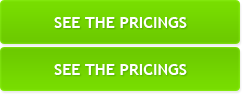
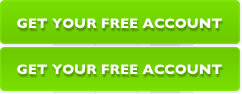
Front page starting to shape up

diff --git a/app/views/home/index.html b/app/views/home/index.html
@@ -3,8 +3,8 @@
     <%= render :partial => 'header', :locals => {:page => 'about'} %>
     <div class="clear span-12 last" id="banner">
       <div class="span-7" id="description">
-        <p>Welcome to <a href="#">PsychSurveys!</a> Read our <a href="#">Getting Started</a> Guide, visit the <a href="#">Blog</a> for recent news and make yourself at home! You can find information about PsychSurveys! in our <a href="#">Help Wiki</a> too go and check it out.</p>
-        <a class="pricing-buttom" HREF="pricing.html" title="See Pricings">See Pricings</a> <span>or <a HREF="signup.html">Sign-up for free</a></span> <small>30 day free trial, sign up in 60 seconds.</small> </div>
+        <p>Welcome to <a href="#">PsychSurveys!</a><br> A free and powerful tool for social scientists to conduct survey research on the web.</p>
+        <a class="pricing-buttom" HREF="signup" title="Signup for free">Signup for free</a> <span>or <a HREF="tour.html">Take the tour</a></span> <small>sign up in 60 seconds. 100% free and secure.</small> </div>
       <!-- end description -->
       <div class="span-5 last" id="display">
         <div id="photos" class="galleryview">

diff --git a/app/views/home/signup.html b/app/views/home/signup.html
@@ -4,7 +4,7 @@
     <div class="clear span-12 last" id="main-inner">
       <div class="span-8 left-content-secondary">
         <div class="span-8 first inner-page-title">
-          <h2 class="main-title-2">Create your PsychSurveys account!</h2>
+          <h2 class="main-title-2">Create your account</h2>
           <span>Lorem ipsum dolor sit amet, consectetuer adipiscing elit. </span> </div>
         <form id="sign-up-top" name="sign-up-top" action="" method="post">
           <h3>Fill your personal information</h3>
